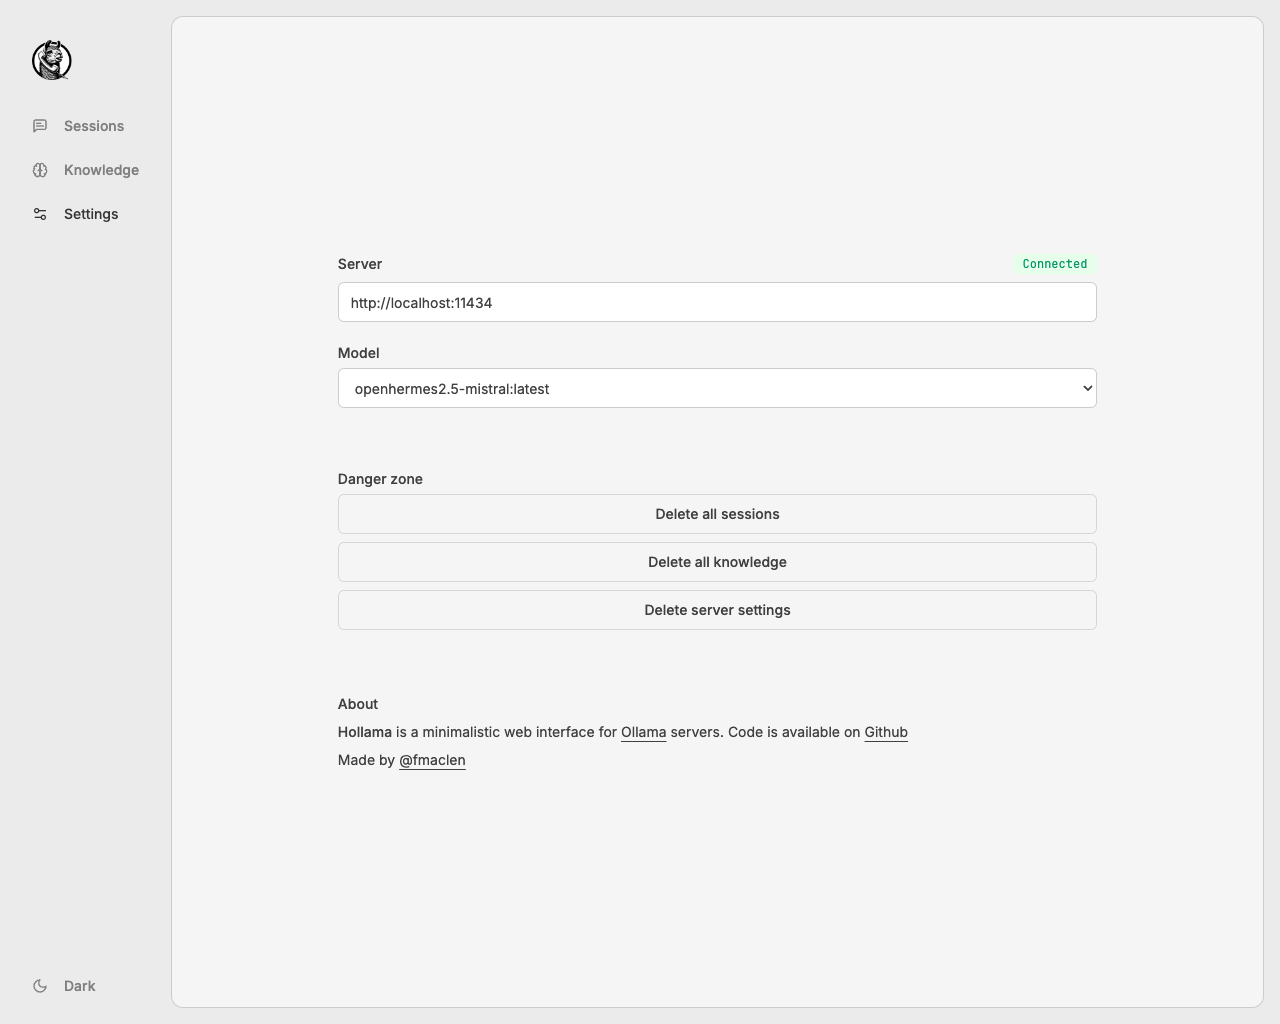
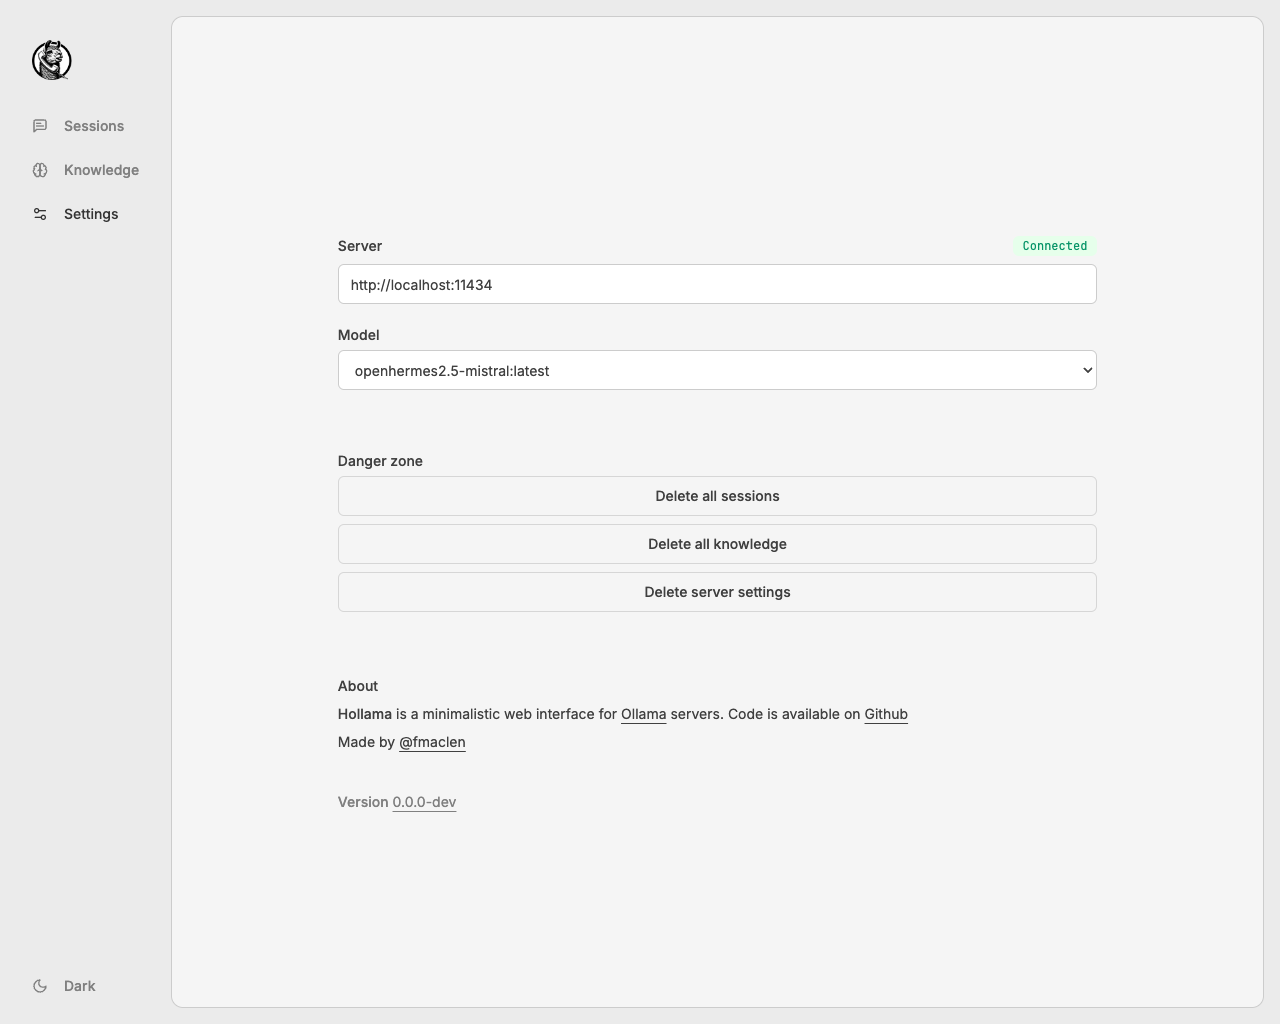
feat: display app version in Settings (#113)

diff --git a/src/routes/settings/+page.svelte b/src/routes/settings/+page.svelte
@@ -1,5 +1,6 @@
 <script lang="ts">
 	import { onMount } from 'svelte';
+	import { version } from '$app/environment';
 
 	import Badge from '$lib/components/Badge.svelte';
 	import Button from '$lib/components/Button.svelte';
@@ -163,6 +164,11 @@
 				</Button>
 			</p>
 		</div>
+		<div class="version">
+			<p class="p">
+				<strong>Version</strong> <Button variant="link" href="https://github.com/fmaclen/hollama/releases" target="_blank">{version}</Button>
+			</p>
+		</div>
 	</div>
 </section>
 
@@ -178,9 +184,14 @@
 		@apply flex flex-col gap-y-4 my-auto;
 	}
 
-	.about {
+	.about,
+	.version {
 		@apply container mx-auto flex max-w-[80ch] flex-col gap-y-2 p-4;
 		@apply lg:p-6;
+	}
+
+	.version {
+		@apply last:py-0 last:text-muted;
 	}
 
 	.code {

diff --git a/svelte.config.js b/svelte.config.js
@@ -25,7 +25,10 @@ const config = {
 		// See https://kit.svelte.dev/docs/adapters for more information about adapters.
 		adapter: process.env.ADAPTER === 'docker-node' ?
 			adapterNode(adapterConfig) :
-			adapterCloudflare(adapterConfig)
+			adapterCloudflare(adapterConfig),
+			version: {
+				name: process.env.npm_package_version
+			}
 	}
 };
 